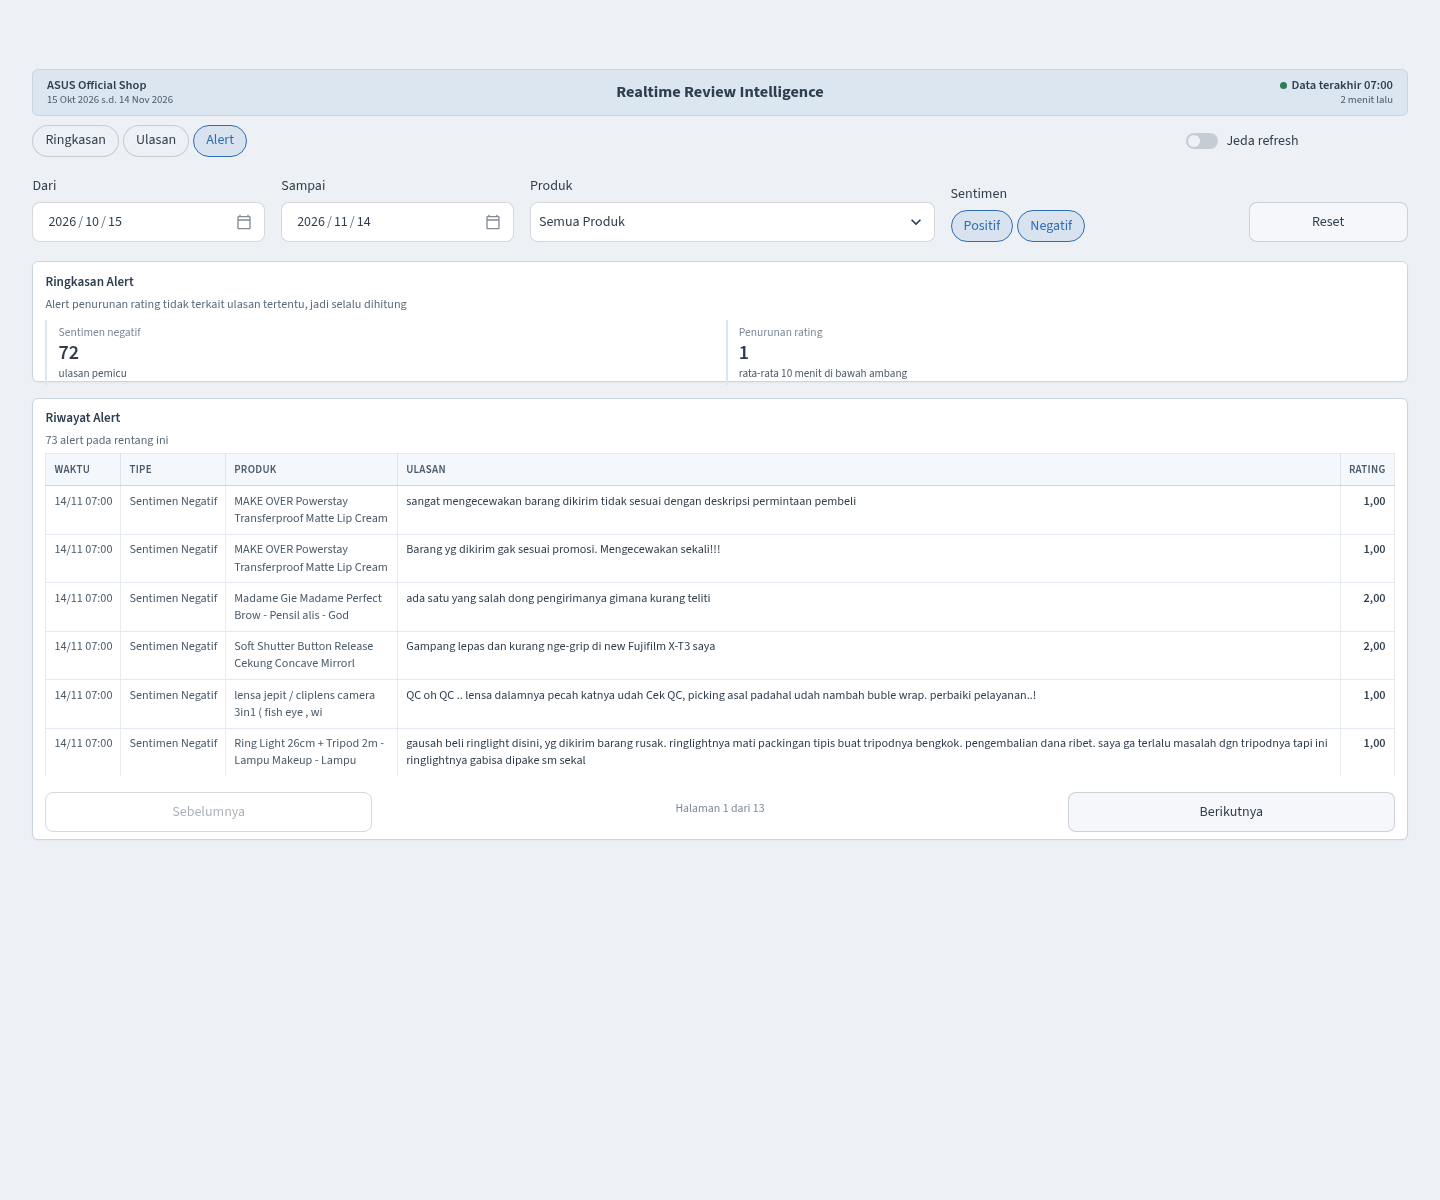
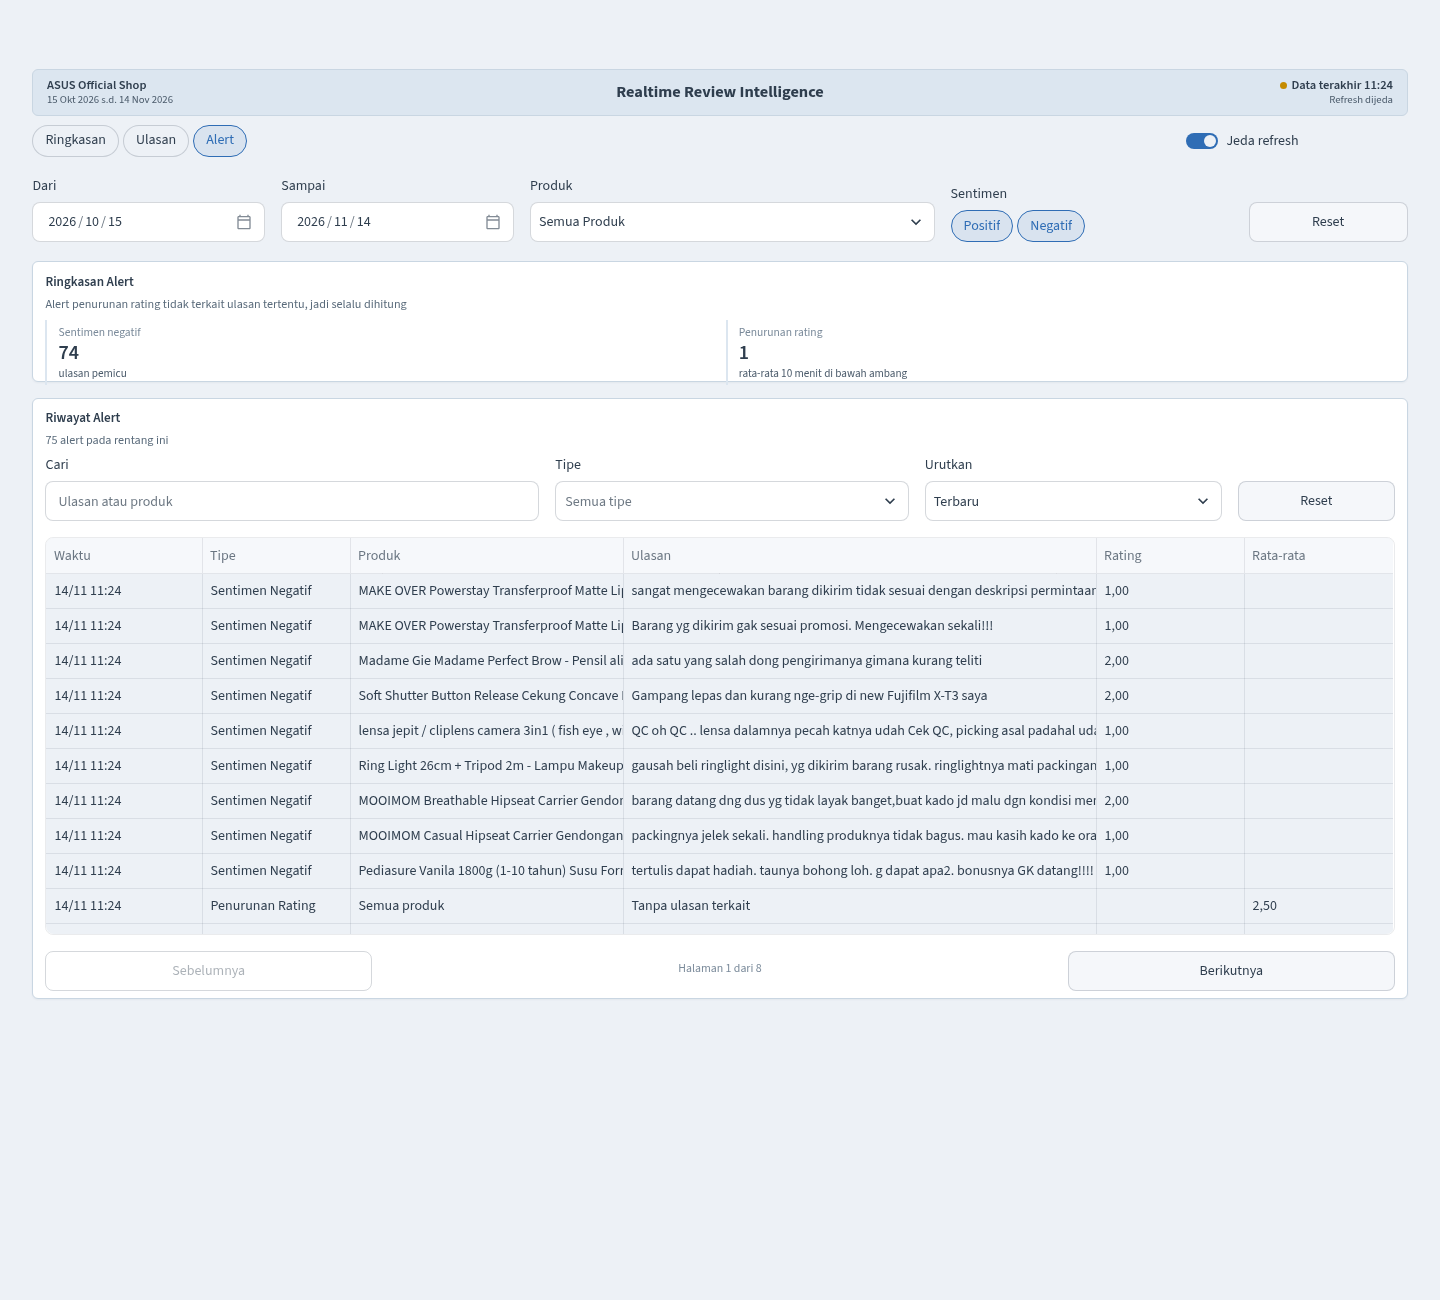
feat(dashboard): sortable and filterable review and alert tables
- replace html tables with streamlit dataframes and column sorting
- add search, emotion, and type filters plus sort controls
- format ratings with indonesian commas
- persist replay marker so restarts do not resend the sample

diff --git a/streaming/services/dashboard/app.py b/streaming/services/dashboard/app.py
@@ -10,6 +10,8 @@ from components import (
     chart_produk,
     chart_sentimen,
     chart_tren,
+    dataframe_alert,
+    dataframe_ulasan,
     delta_html,
     inject_css,
     kartu,
@@ -19,12 +21,12 @@ from components import (
     persen,
     rating,
     stats_alert,
-    tabel_alert,
-    tabel_ulasan,
     topbar,
 )
-from config import ALL_PRODUCT, AUTO_REFRESH_MS, PAGE_SIZE
+from config import ALL_PRODUCT, AUTO_REFRESH_MS, EMOTIONS, PAGE_SIZE
 from db import (
+    ALERT_SORT,
+    REVIEW_SORT,
     get_active_models,
     get_alert_breakdown,
     get_data_freshness,
@@ -104,6 +106,10 @@ paused = st.session_state["paused"]
 st_autorefresh(interval=3_600_000 if paused else AUTO_REFRESH_MS, key="auto_refresh")
 
 BULAN = ["Jan", "Feb", "Mar", "Apr", "Mei", "Jun", "Jul", "Agu", "Sep", "Okt", "Nov", "Des"]
+ALERT_LABELS = {
+    "Sentimen Negatif": "sentiment_negative",
+    "Penurunan Rating": "rating_drop",
+}
 
 
 def _tanggal_id(nilai: date) -> str:
@@ -350,14 +356,55 @@ def halaman_ulasan(filters: dict, total: int) -> None:
         else:
             st.plotly_chart(chart_produk(df_produk), width="stretch", config=PLOT_CONFIG)
 
-    halaman = int(st.session_state.get("review_page", 0))
-    df_ulasan = get_reviews_page(filters, limit=PAGE_SIZE, offset=halaman * PAGE_SIZE)
     with kartu("Ulasan Terbaru", f"{angka(total)} ulasan pada rentang ini"):
-        if df_ulasan.empty:
-            kosong("Tidak ada ulasan pada halaman ini.")
+        k1, k2, k3, k4 = st.columns(
+            [1.8, 1.3, 1.1, 0.6], vertical_alignment="bottom"
+        )
+        with k1:
+            cari = st.text_input(
+                "Cari",
+                placeholder="Ulasan atau produk",
+                key="review_search",
+            )
+        with k2:
+            emosi = st.multiselect(
+                "Emosi",
+                EMOTIONS,
+                key="review_emotion",
+                placeholder="Semua emosi",
+            )
+        with k3:
+            urut = st.selectbox("Urutkan", list(REVIEW_SORT), key="review_sort")
+        with k4:
+            if st.button("Reset", key="review_table_reset", width="stretch"):
+                st.session_state.review_search = ""
+                st.session_state.review_emotion = []
+                st.session_state.review_sort = "Terbaru"
+                st.session_state.review_page = 0
+                st.rerun()
+
+        kunci = f"{cari}|{','.join(sorted(emosi))}|{urut}"
+        if st.session_state.get("_review_table_key") != kunci:
+            st.session_state.review_page = 0
+            st.session_state["_review_table_key"] = kunci
+
+        halaman = int(st.session_state.get("review_page", 0))
+        total_tabel = get_total_reviews_count(filters, search=cari, emotions=emosi)
+        df_ulasan = get_reviews_page(
+            filters,
+            limit=PAGE_SIZE,
+            offset=halaman * PAGE_SIZE,
+            search=cari,
+            emotions=emosi,
+            sort=urut,
+        )
+        if total_tabel == 0:
+            kosong("Tidak ada ulasan yang cocok dengan pencarian atau emosi.")
         else:
-            tabel_ulasan(df_ulasan)
-            sebelumnya, berikutnya = pagination("review", halaman, total, PAGE_SIZE)
+            dataframe_ulasan(df_ulasan)
+            sebelumnya, berikutnya = pagination(
+                "review", halaman, total_tabel, PAGE_SIZE
+            )
             if sebelumnya:
                 _ganti_halaman("review_page", max(0, halaman - 1))
             if berikutnya:
@@ -377,14 +424,56 @@ def halaman_alert(filters: dict) -> None:
         )
 
     total_alert = get_total_alerts_count(filters)
-    halaman = int(st.session_state.get("alert_page", 0))
-    df_alert = get_alerts_page(filters, limit=PAGE_SIZE, offset=halaman * PAGE_SIZE)
     with kartu("Riwayat Alert", f"{angka(total_alert)} alert pada rentang ini"):
-        if df_alert.empty:
-            kosong("Belum ada alert pada rentang ini.")
+        k1, k2, k3, k4 = st.columns(
+            [1.8, 1.3, 1.1, 0.6], vertical_alignment="bottom"
+        )
+        with k1:
+            cari = st.text_input(
+                "Cari",
+                placeholder="Ulasan atau produk",
+                key="alert_search",
+            )
+        with k2:
+            tipe_label = st.multiselect(
+                "Tipe",
+                list(ALERT_LABELS),
+                key="alert_type",
+                placeholder="Semua tipe",
+            )
+        with k3:
+            urut = st.selectbox("Urutkan", list(ALERT_SORT), key="alert_sort")
+        with k4:
+            if st.button("Reset", key="alert_table_reset", width="stretch"):
+                st.session_state.alert_search = ""
+                st.session_state.alert_type = []
+                st.session_state.alert_sort = "Terbaru"
+                st.session_state.alert_page = 0
+                st.rerun()
+
+        tipe = [ALERT_LABELS[label] for label in tipe_label]
+        kunci = f"{cari}|{','.join(sorted(tipe))}|{urut}"
+        if st.session_state.get("_alert_table_key") != kunci:
+            st.session_state.alert_page = 0
+            st.session_state["_alert_table_key"] = kunci
+
+        halaman = int(st.session_state.get("alert_page", 0))
+        total_tabel = get_total_alerts_count(filters, search=cari, types=tipe)
+        df_alert = get_alerts_page(
+            filters,
+            limit=PAGE_SIZE,
+            offset=halaman * PAGE_SIZE,
+            search=cari,
+            types=tipe,
+            sort=urut,
+        )
+        if total_tabel == 0:
+            kosong("Tidak ada alert yang cocok dengan pencarian atau tipe.")
         else:
-            tabel_alert(df_alert)
-            sebelumnya, berikutnya = pagination("alert", halaman, total_alert, PAGE_SIZE)
+            dataframe_alert(df_alert)
+            sebelumnya, berikutnya = pagination(
+                "alert", halaman, total_tabel, PAGE_SIZE
+            )
             if sebelumnya:
                 _ganti_halaman("alert_page", max(0, halaman - 1))
             if berikutnya:

diff --git a/streaming/services/dashboard/db.py b/streaming/services/dashboard/db.py
@@ -236,15 +236,46 @@ def get_top_products_by_rating(
 
 
 
-def get_reviews_page(filters: dict, limit: int = 5, offset: int = 0) -> pd.DataFrame:
+def _append(where: str, condition: str) -> str:
+    return f"{where} AND {condition}" if where else f"WHERE {condition}"
+
+
+REVIEW_SORT = {
+    "Terbaru": ("create_time", "DESC"),
+    "Rating terendah": ("rating_star", "ASC"),
+    "Rating tertinggi": ("rating_star", "DESC"),
+    "Produk A-Z": ("product_name", "ASC"),
+}
+
+ALERT_SORT = {
+    "Terbaru": ("a.triggered_at", "DESC"),
+    "Terlama": ("a.triggered_at", "ASC"),
+}
+
+
+def get_reviews_page(
+    filters: dict,
+    limit: int = 10,
+    offset: int = 0,
+    search: str = "",
+    emotions: list[str] | None = None,
+    sort: str = "Terbaru",
+) -> pd.DataFrame:
     where, params = _build_review_filter(filters)
-    params["limit"]  = limit
+    if search:
+        where = _append(where, "(comment ILIKE :search OR product_name ILIKE :search)")
+        params["search"] = f"%{search}%"
+    if emotions:
+        where = _append(where, "emotion = ANY(:emotions)")
+        params["emotions"] = list(emotions)
+    kolom, arah = REVIEW_SORT.get(sort, REVIEW_SORT["Terbaru"])
+    params["limit"] = limit
     params["offset"] = offset
     sql = f"""
         SELECT create_time, product_name, comment, rating_star, sentiment, emotion
         FROM reviews
         {where}
-        ORDER BY create_time DESC
+        ORDER BY {kolom} {arah}, create_time DESC
         LIMIT :limit OFFSET :offset
     """
     with engine.connect() as conn:
@@ -255,17 +286,42 @@ def get_reviews_page(filters: dict, limit: int = 5, offset: int = 0) -> pd.DataF
     return df
 
 
-def get_total_reviews_count(filters: dict) -> int:
+def get_total_reviews_count(
+    filters: dict, search: str = "", emotions: list[str] | None = None
+) -> int:
     where, params = _build_review_filter(filters)
+    if search:
+        where = _append(where, "(comment ILIKE :search OR product_name ILIKE :search)")
+        params["search"] = f"%{search}%"
+    if emotions:
+        where = _append(where, "emotion = ANY(:emotions)")
+        params["emotions"] = list(emotions)
     sql = f"SELECT COUNT(*) FROM reviews {where}"
     with engine.connect() as conn:
         return conn.execute(text(sql), params).scalar() or 0
 
 
 
-def get_alerts_page(filters: dict, limit: int = 5, offset: int = 0) -> pd.DataFrame:
+def get_alerts_page(
+    filters: dict,
+    limit: int = 10,
+    offset: int = 0,
+    search: str = "",
+    types: list[str] | None = None,
+    sort: str = "Terbaru",
+) -> pd.DataFrame:
     where, params = _build_alert_filter(filters, date_column="a.triggered_at")
-    params["limit"]  = limit
+    if search:
+        where = _append(
+            where,
+            "(a.comment ILIKE :search OR r.product_name ILIKE :search)",
+        )
+        params["search"] = f"%{search}%"
+    if types:
+        where = _append(where, "a.alert_type = ANY(:types)")
+        params["types"] = list(types)
+    kolom, arah = ALERT_SORT.get(sort, ALERT_SORT["Terbaru"])
+    params["limit"] = limit
     params["offset"] = offset
     sql = f"""
         SELECT a.triggered_at, a.alert_type, a.comment, a.rating_avg,
@@ -275,7 +331,7 @@ def get_alerts_page(filters: dict, limit: int = 5, offset: int = 0) -> pd.DataFr
         FROM alerts a
         LEFT JOIN reviews r ON a.review_id = r.id
         {where}
-        ORDER BY a.triggered_at DESC, a.id DESC
+        ORDER BY {kolom} {arah}, a.id DESC
         LIMIT :limit OFFSET :offset
     """
     with engine.connect() as conn:
@@ -286,8 +342,19 @@ def get_alerts_page(filters: dict, limit: int = 5, offset: int = 0) -> pd.DataFr
     return df
 
 
-def get_total_alerts_count(filters: dict) -> int:
+def get_total_alerts_count(
+    filters: dict, search: str = "", types: list[str] | None = None
+) -> int:
     where, params = _build_alert_filter(filters, date_column="a.triggered_at")
+    if search:
+        where = _append(
+            where,
+            "(a.comment ILIKE :search OR r.product_name ILIKE :search)",
+        )
+        params["search"] = f"%{search}%"
+    if types:
+        where = _append(where, "a.alert_type = ANY(:types)")
+        params["types"] = list(types)
     sql = f"""
         SELECT COUNT(*)
         FROM alerts a

diff --git a/streaming/services/dashboard/components.py b/streaming/services/dashboard/components.py
@@ -352,6 +352,79 @@ def _badge_emotion(value: str) -> str:
     return f'<span class="badge {kelas}">{html.escape(str(value))}</span>'
 
 
+SENTIMENT_TAMPIL = {"Positive": "🟢 Positif", "Negative": "🔴 Negatif"}
+EMOTION_TAMPIL = {
+    "Happy": "🔵 Happy",
+    "Love": "🟢 Love",
+    "Fear": "🟣 Fear",
+    "Sadness": "🟤 Sadness",
+    "Anger": "🔴 Anger",
+}
+
+
+def _rating_teks(value) -> str:
+    if value is None or pd.isna(value):
+        return ""
+    return f"{float(value):.2f}".replace(".", ",")
+
+
+def dataframe_ulasan(df: pd.DataFrame) -> None:
+    tabel = pd.DataFrame(
+        {
+            "Waktu": pd.to_datetime(df["create_time"]),
+            "Produk": df["product_name"],
+            "Ulasan": df["comment"],
+            "Rating": df["rating_star"].map(_rating_teks),
+            "Sentimen": df["sentiment"].map(SENTIMENT_TAMPIL).fillna(df["sentiment"]),
+            "Emosi": df["emotion"].map(EMOTION_TAMPIL).fillna(df["emotion"]),
+        }
+    )
+    st.dataframe(
+        tabel,
+        hide_index=True,
+        width="stretch",
+        height=min(430, 38 + 36 * len(tabel)),
+        column_config={
+            "Waktu": st.column_config.DatetimeColumn("Waktu", format="DD/MM HH:mm"),
+            "Produk": st.column_config.TextColumn("Produk", width="medium"),
+            "Ulasan": st.column_config.TextColumn("Ulasan", width="large"),
+            "Rating": st.column_config.TextColumn("Rating", width="small"),
+            "Sentimen": st.column_config.TextColumn("Sentimen", width="small"),
+            "Emosi": st.column_config.TextColumn("Emosi", width="small"),
+        },
+    )
+
+
+def dataframe_alert(df: pd.DataFrame) -> None:
+    tipe = df["alert_type"].map(ALERT_TYPE_LABELS).fillna(df["alert_type"])
+    produk = df["product_name"].fillna("Semua produk")
+    komentar = df["comment"].fillna("Tanpa ulasan terkait")
+    tabel = pd.DataFrame(
+        {
+            "Waktu": pd.to_datetime(df["triggered_at"]),
+            "Tipe": tipe,
+            "Produk": produk,
+            "Ulasan": komentar,
+            "Rating": df["review_rating"].map(_rating_teks),
+            "Rata-rata": df["rating_avg"].map(_rating_teks),
+        }
+    )
+    st.dataframe(
+        tabel,
+        hide_index=True,
+        width="stretch",
+        height=min(430, 38 + 36 * len(tabel)),
+        column_config={
+            "Waktu": st.column_config.DatetimeColumn("Waktu", format="DD/MM HH:mm"),
+            "Tipe": st.column_config.TextColumn("Tipe", width="small"),
+            "Produk": st.column_config.TextColumn("Produk", width="medium"),
+            "Ulasan": st.column_config.TextColumn("Ulasan", width="large"),
+            "Rating": st.column_config.TextColumn("Rating", width="small"),
+            "Rata-rata": st.column_config.TextColumn("Rata-rata", width="small"),
+        },
+    )
+
+
 def tabel_ulasan(df: pd.DataFrame) -> None:
     baris = []
     for row in df.itertuples(index=False):

diff --git a/streaming/services/poller/main.py b/streaming/services/poller/main.py
@@ -22,6 +22,7 @@ REPLAY_FILE            = os.getenv("REPLAY_FILE", "").strip()
 REPLAY_INTERVAL        = float(os.getenv("REPLAY_INTERVAL", "1.5"))
 REPLAY_LOOP            = os.getenv("REPLAY_LOOP", "false").lower() == "true"
 REPLAY_SPREAD_SECONDS  = int(os.getenv("REPLAY_SPREAD_SECONDS", "1800"))
+REPLAY_MARKER          = os.path.join(DATA_DIR, "replay_done")
 
 METADATA_FILE = os.path.join(DATA_DIR, "latest_metadata.json")
 COOKIES_FILE  = os.path.join(DATA_DIR, "cookies.json")
@@ -553,9 +554,16 @@ def run_replay(producer: KafkaProducer) -> None:
 def main():
     producer = init_producer()
     if REPLAY_FILE:
+        os.makedirs(DATA_DIR, exist_ok=True)
+        if os.path.exists(REPLAY_MARKER):
+            print("[REPLAY] Sampel sudah pernah dikirim. Jalankan task replay untuk mengirim ulang.")
+            while True:
+                time.sleep(3600)
         while True:
             run_replay(producer)
             if not REPLAY_LOOP:
+                with open(REPLAY_MARKER, "w", encoding="utf-8") as handle:
+                    handle.write("done\n")
                 print("[REPLAY] Mode sekali jalan. Container tetap hidup tanpa mengirim ulang.")
                 while True:
                     time.sleep(3600)

diff --git a/streaming/services/dashboard/config.py b/streaming/services/dashboard/config.py
@@ -33,5 +33,6 @@ ALERT_TYPE_LABELS = {
 }
 
 ALL_PRODUCT = "__all__"
-PAGE_SIZE = 6
+PAGE_SIZE = 10
+EMOTIONS = ["Anger", "Fear", "Happy", "Love", "Sadness"]
 AUTO_REFRESH_MS = 5000
